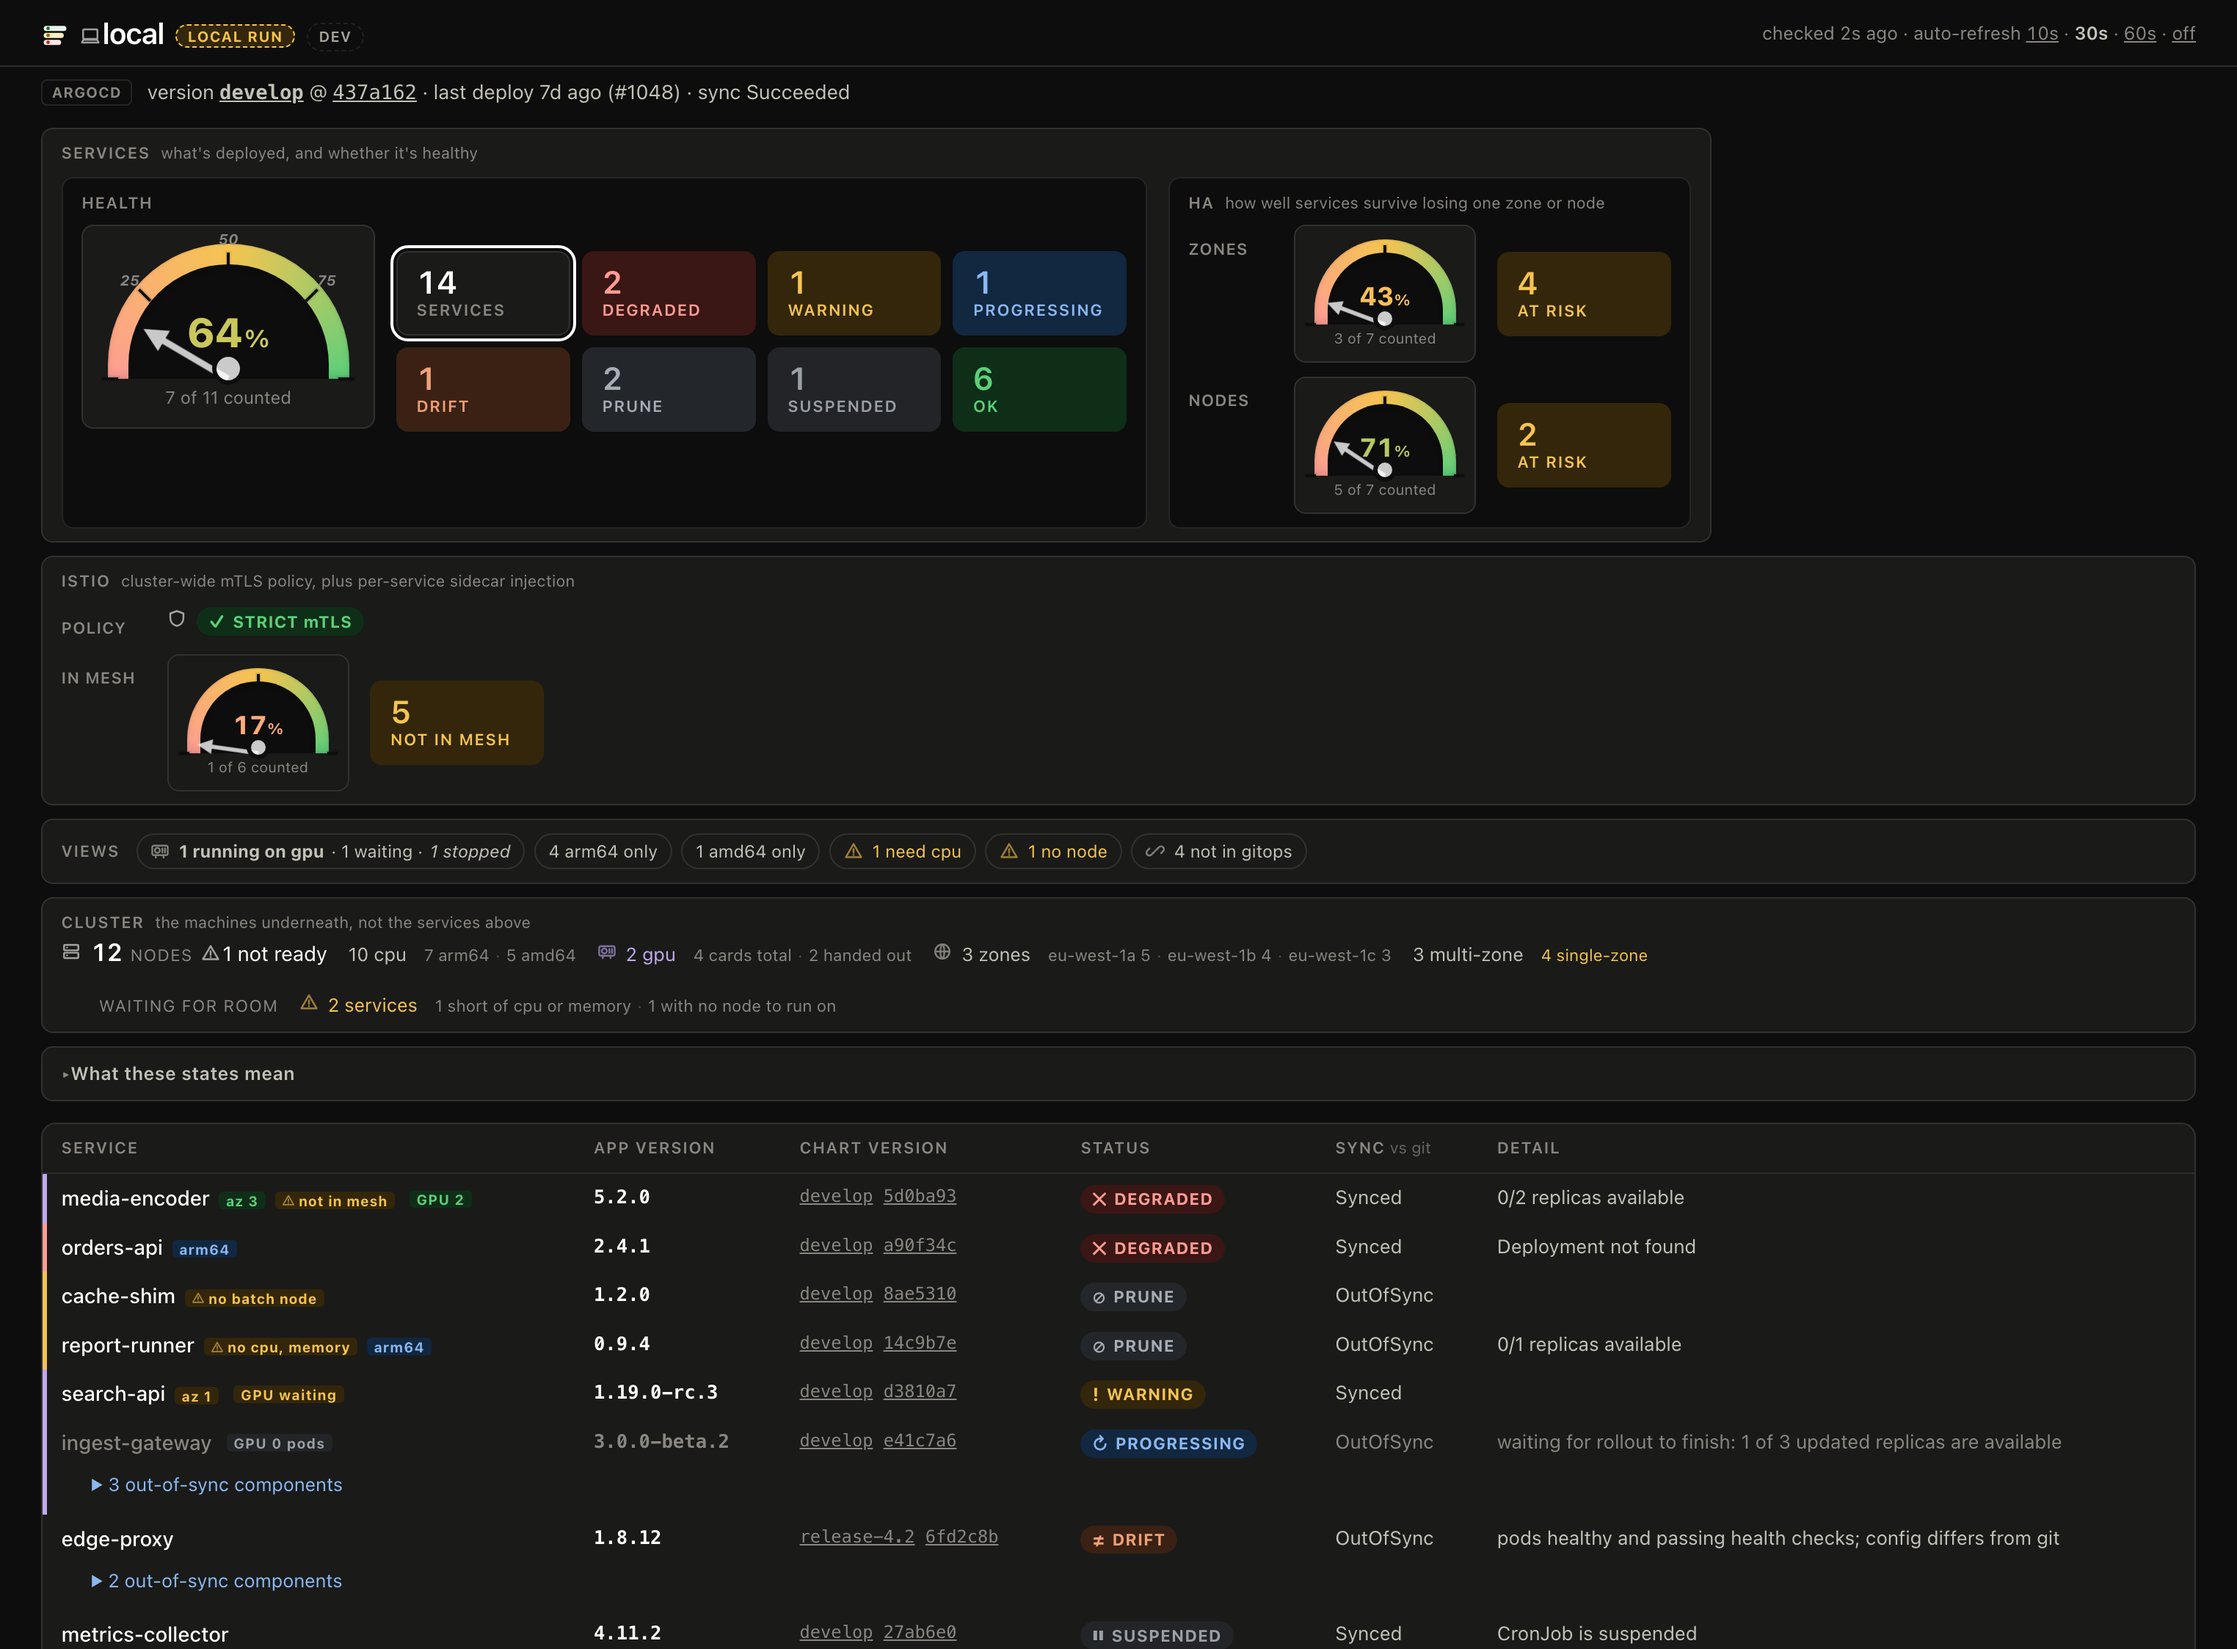
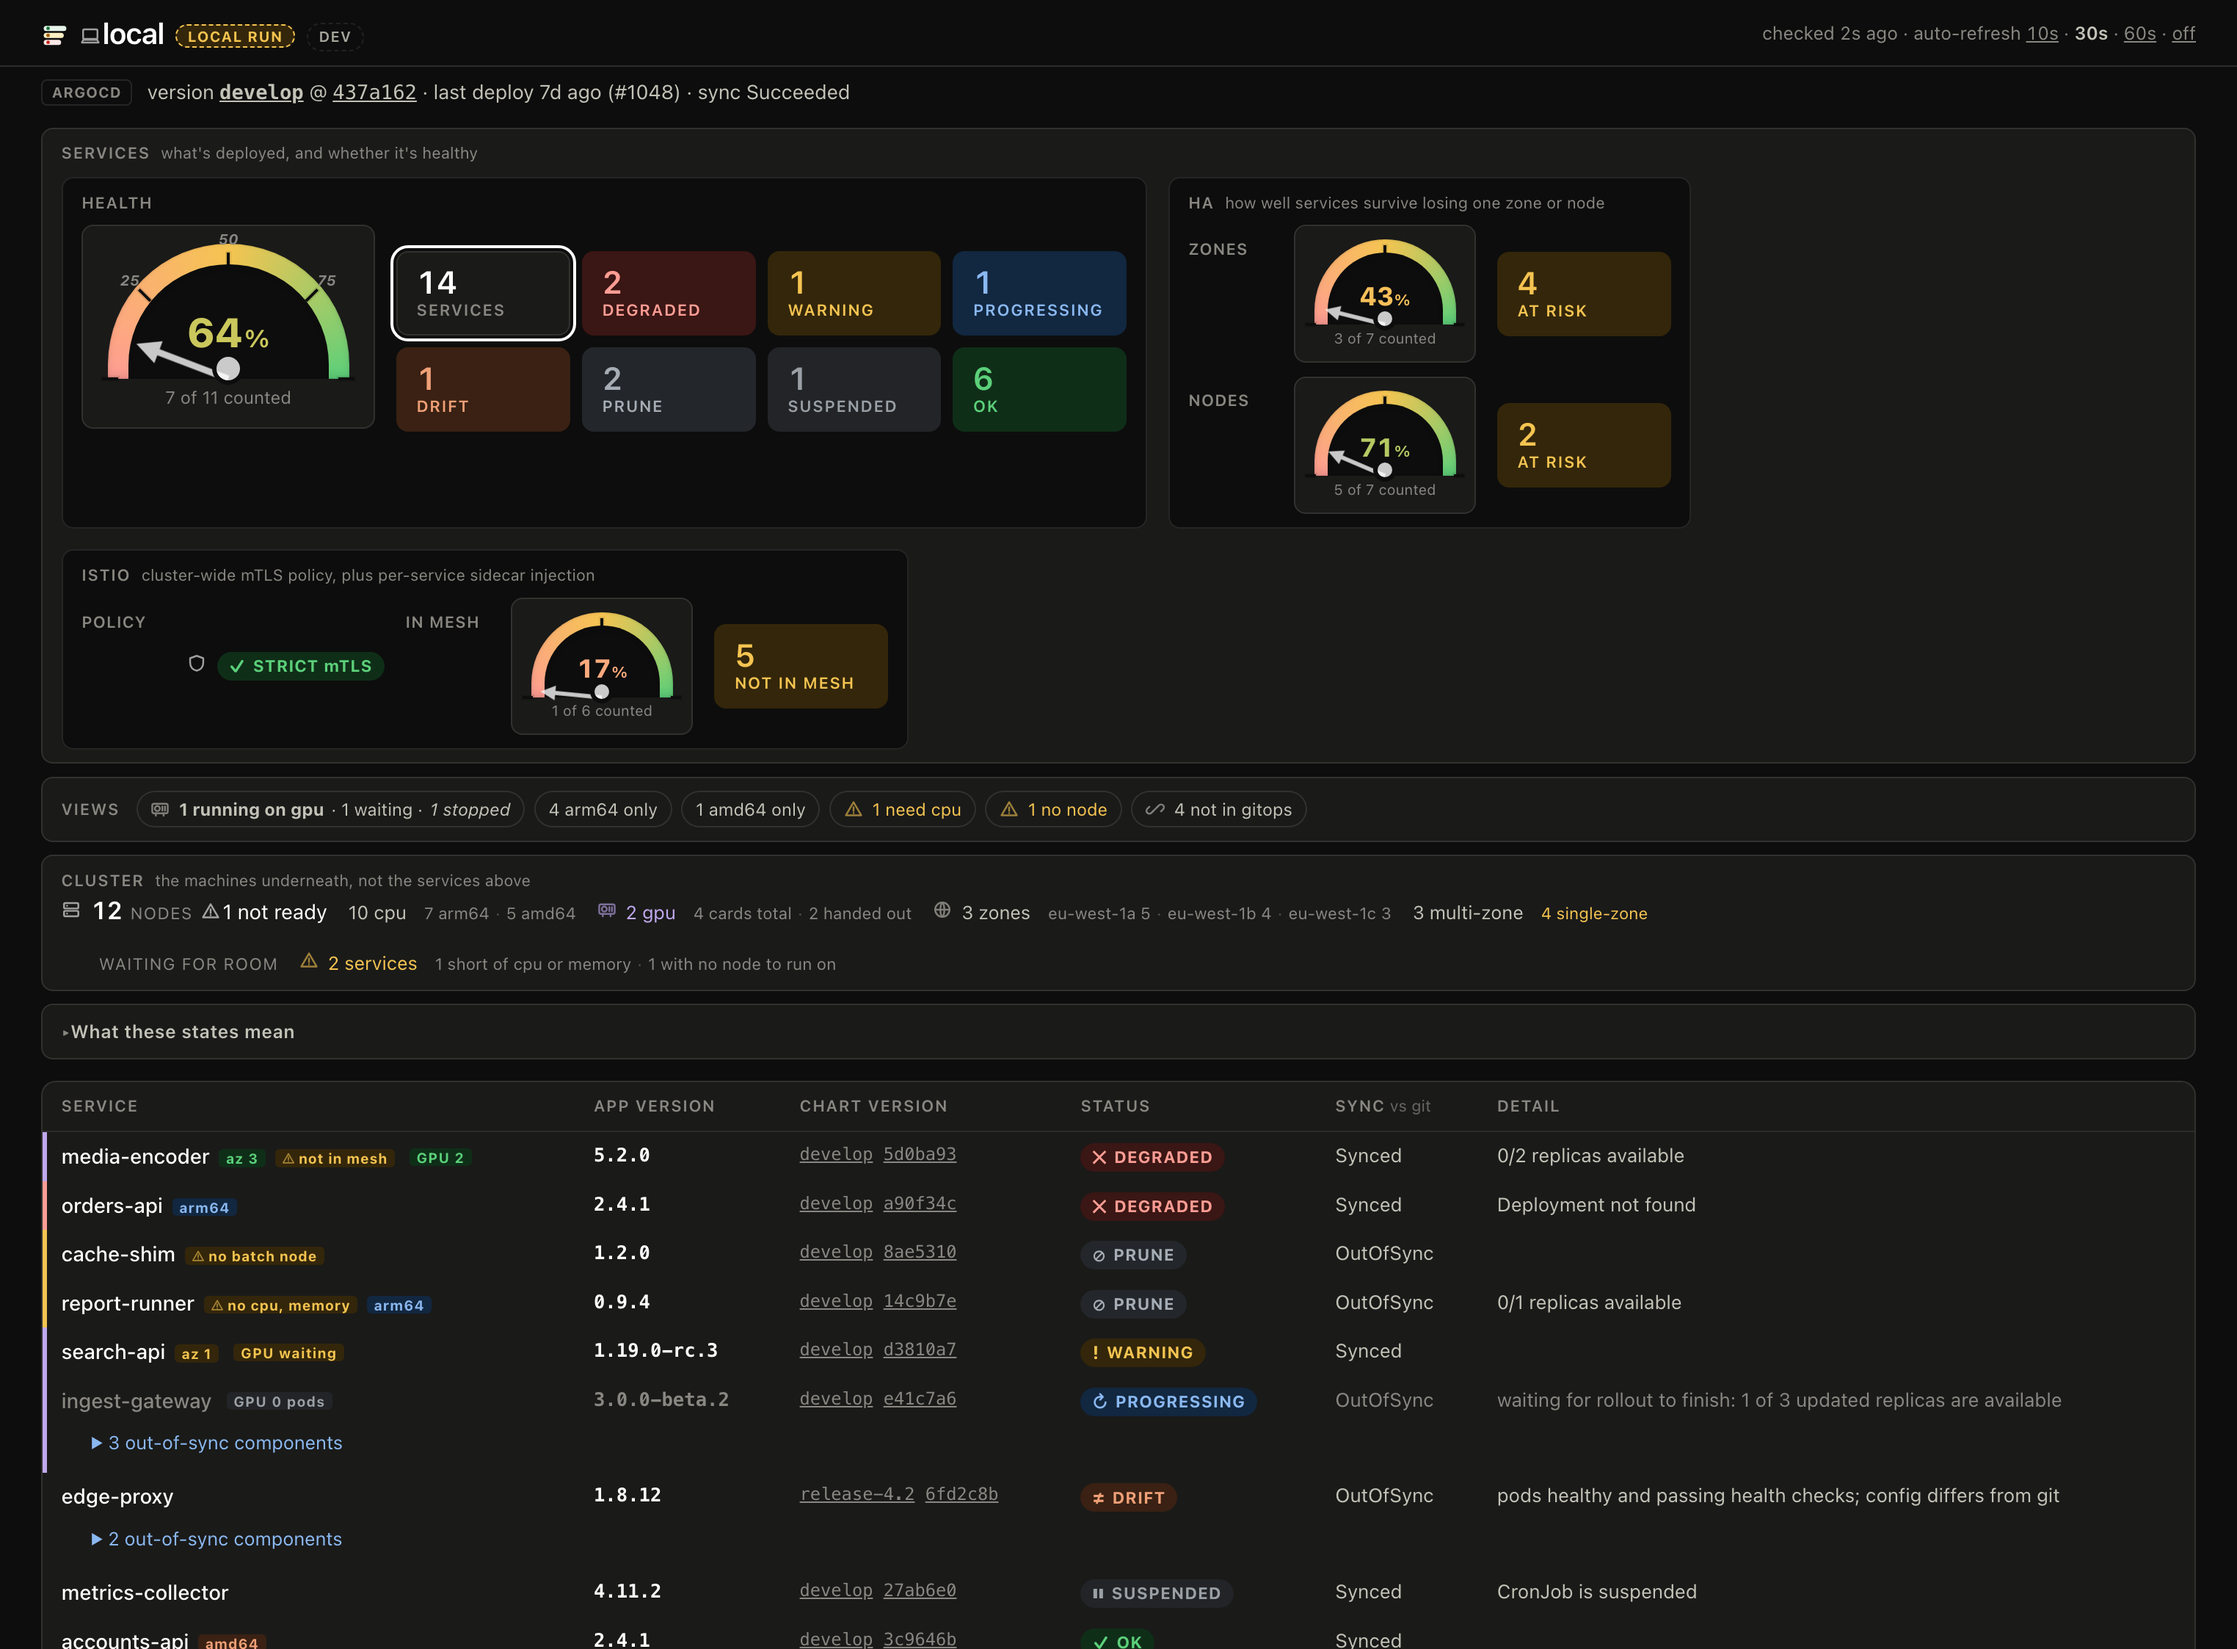
fix: put Istio back in the same row as Services and HA
The full-width section below Services+HA looked like a bigger change
than intended and wasted the row above it. Istio is a third .area
inside the same Services panel again, with Policy and In-mesh on one
row (not stacked) so it stays compact. On a wide viewport it now sits
beside Health/HA in one line; it still wraps below on a narrow one,
same as HA already does relative to Health.

diff --git a/internal/web/templates/index.html b/internal/web/templates/index.html
@@ -119,11 +119,13 @@ h1 { font-size: 1.25rem; font-weight: 600; margin: 0; letter-spacing: -.01em;
    can join as sibling .panel elements later without restructuring this row). */
 .panel-row { display: flex; flex-wrap: wrap; justify-content: flex-start; gap: .75rem;
              margin: .9rem 0 .35rem; }
-/* flex-grow: 0 -- panels hug their own content instead of stretching to split the row
-   evenly. Two narrow panels sit next to each other with leftover row space after the
-   last one, not distributed as dead space inside each. min-width is the mobile floor;
-   flex-shrink still lets a panel narrow (then wrap) on a small viewport. */
-.panel { flex: 0 1 auto; min-width: 380px; box-sizing: border-box; background: var(--surface);
+/* flex-grow: 1 -- today there is exactly one panel in this row, and it should fill it:
+   its own .areas (Health/HA/Istio) needs the full row's width to lay three areas out
+   side by side instead of wrapping the third one onto its own line. Revisit this once
+   a second sibling panel actually exists -- growing both evenly would then need its
+   own call, not this one. min-width is the mobile floor; flex-shrink still lets a
+   panel narrow (then wrap) on a small viewport. */
+.panel { flex: 1 1 auto; min-width: 380px; box-sizing: border-box; background: var(--surface);
          border: 1px solid var(--ring); border-radius: 8px; padding: .55rem .8rem; }
 /* Health and HA are both about services, so they live inside one Services panel as
    two sub-areas. Each gets its own inset box rather than a divider line between them:
@@ -613,18 +615,15 @@ footer { margin-top: 1.6rem; color: var(--muted); font-size: .72rem; }
     {{end}}
   </div>
 </div>
-</div>
-</div>
-</div>
 {{if $.Snapshot.Mesh}}
-{{/* Its own full-width section, like Cluster below it, rather than a third narrow
-     .area squeezed inside the Services panel: Policy and In Mesh both read as a
-     label plus a wide row of content, and had no room to breathe at .area width. */}}
-<section class="capacity">
+<div class="area">
   <div class="cap-head">Istio<span class="cap-sub">cluster-wide mTLS policy, plus per-service sidecar injection</span></div>
   <div class="ha-rows">
-    {{with $.Snapshot.Mesh}}
+    {{/* One row, not two: Policy is a short pill, not a gauge, so stacking it above
+         In mesh wasted vertical space for no reason -- they're both facts about the
+         same mesh and read fine side by side. */}}
     <div class="tiles-row is-top">
+    {{with $.Snapshot.Mesh}}
       <span class="spread-lab" title="Mesh-wide policy only. Namespace and workload PeerAuthentications can override this for individual services and are not read.">Policy</span>
       {{if not .Error}}
       <div class="cap-lead">{{icon "mesh"}}<span class="pill s-{{lower (printf "%s" .State)}}"><span class="g">{{glyph (printf "%s" .State)}}</span>
@@ -641,10 +640,8 @@ footer { margin-top: 1.6rem; color: var(--muted); font-size: .72rem; }
         {{- else}}the mesh mTLS read did not complete, so this may be out of date.{{end}} ({{.Error}})
       </div>
       {{end}}
-    </div>
     {{end}}
     {{with $.Snapshot.MeshHA}}
-    <div class="tiles-row">
       <span class="spread-lab" title="Sidecar injection only: a service having the sidecar on every running pod is not the same as mTLS being enforced for it. An Istio ingress gateway reads as 'in mesh' too, but that's its own Envoy engine, not an injected sidecar -- gateways are never sidecar-injected by design.">In mesh</span>
       <div class="gauge{{if not .Known}} is-unknown{{end}}"{{if .Known}} style="--pct: {{.Percent}}"{{end}} title="{{if .Known}}{{.Percent}}% of mesh-eligible services carry the Istio sidecar on every running pod &middot; {{.Injected}} of {{.Eligible}} counted{{if .NotInMesh}} &middot; {{.NotInMesh}} not in mesh{{end}}{{else}}no services counted{{end}}">
         <div class="hd-face">
@@ -663,11 +660,14 @@ footer { margin-top: 1.6rem; color: var(--muted); font-size: .72rem; }
       {{else if .Known}}
       <div class="tile t-ok"><div class="n">0</div><div class="k">not in mesh</div></div>
       {{end}}
-    </div>
     {{end}}
+    </div>
   </div>
-</section>
+</div>
 {{end}}
+</div>
+</div>
+</div>
 <div class="views">
   <span class="views-lab">views</span>
   <a class="vchip{{if $.FilterActive "gpu" "true"}} is-on{{end}}" href="{{$.FilterHref "gpu" "true"}}" title="Counts services, not devices. {{$.Snapshot.Summary.GPU}} are backed by {{$.Snapshot.AcceleratorLabel}}: {{$.Snapshot.Summary.GPURunning}} holding one now, {{$.Snapshot.Summary.GPUWaiting}} waiting for one, {{$.Snapshot.Summary.GPUStopped}} with no replicas. The cluster line below counts the devices themselves.">{{icon "gpu"}}<b>{{$.Snapshot.Summary.GPURunning}} running on {{$.Snapshot.AcceleratorLabel}}</b>{{if $.Snapshot.Summary.GPUWaiting}} · {{$.Snapshot.Summary.GPUWaiting}} waiting{{end}}{{if $.Snapshot.Summary.GPUStopped}} · <i>{{$.Snapshot.Summary.GPUStopped}} stopped</i>{{end}}</a>
